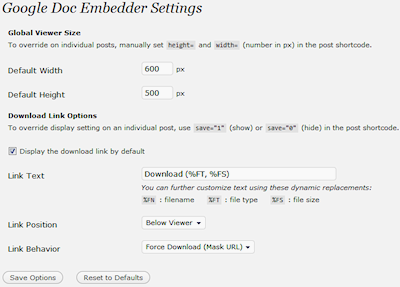
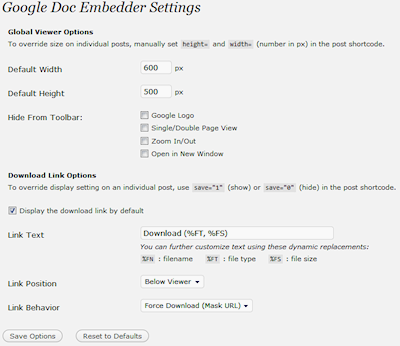
git-svn-id: https://plugins.svn.wordpress.org/google-document-embedder/trunk@160307 b8457f37-d9ea-0310-8a92-e5e31aec5664

diff --git a/gviewer.php b/gviewer.php
@@ -5,7 +5,7 @@ Plugin Name: Google Doc Embedder
 Plugin URI: http://davismetro.com/gde/
 Description: Lets you embed PDF files, PowerPoint presentations, and TIFF images in a web page using the Google Docs Viewer.
 Author: Kevin Davis
-Version: 1.6
+Version: 1.7
 */
 
 /*  Copyright 2009 Kevin Davis. E-mail: kev@tnw.org
@@ -35,6 +35,10 @@ function gviewer_func($atts) {
 	$wd = get_option('gde_default_width');
 	$ht = get_option('gde_default_height');
 	$txt = get_option('gde_link_text');
+	$xlogo = get_option('gde_xlogo');
+	$xfull = get_option('gde_xfull');
+	$xpgup = get_option('gde_xpgup');
+	$xzoom = get_option('gde_xzoom');
 	extract(shortcode_atts(array(
 		'file' => '',
 		'save' => $dl,
@@ -53,20 +57,31 @@ function gviewer_func($atts) {
 	} elseif (!$fsize = validUrl($file)) {
 		$code = "\n<!-- GDE EMBED ERROR: file not found -->\n";
 	} else {
+		$pUrl = getPluginUrl();
+	
 		$fn = basename($file);
 		$fnp = splitFilename($fn);
 		$fsize = formatBytes($fsize);
 		
 		$code=<<<HERE
-<iframe src="http://docs.google.com/viewer?url=%U%&embedded=true" style="width:%W%px; height:%H%px;" frameborder="0" class="gde-frame"></iframe>\n
+<iframe src="%U%" style="width:%W%px; height:%H%px;" frameborder="0" class="gde-frame"></iframe>\n
 HERE;
+
+		$lnk = "http://docs.google.com/viewer?url=".urlencode($file)."&embedded=true";
+		if ($xlogo || $xfull || $xpgup || $xzoom) {
+			$lnk = $pUrl."/altview.php?loc=".urlencode($lnk);
+			if ($xlogo == "1") { $lnk .= "&logo=no"; }
+			if ($xfull == "1") { $lnk .= "&full=no"; }
+			if ($xpgup == "1") { $lnk .= "&pgup=no"; }
+			if ($xzoom == "1") { $lnk .= "&zoom=no"; }
+		}
 
 		if ($save == "1") {
 		
 			$dlMethod = get_option('gde_link_func');
 			if ($fnp[1] == "PDF") {
 				if ($dlMethod == "force" or $dlMethod == "force-mask") {
-					$dlFile = getPluginUrl();
+					$dlFile = $pUrl;
 					$fileParts = parse_url($file);
 					$fileStr = str_replace($fileParts['scheme']."://","",$file);
 					$dlFile .= "/pdf.php?file=".$fileStr."&dl=1&fn=".$fn;
@@ -79,9 +94,12 @@ HERE;
 					$dlFile = shortUrl($dlFile);
 				}
 				
+			} elseif ($dlMethod == "force-mask") {
+				$dlFile = shortUrl($file);
+				$target = "_self";
 			} else {
 				$dlFile = $file;
-				$target = "_blank";
+				$target = "_self";
 			}
 			$linkcode = "<p class=\"gde-text\"><a href=\"$dlFile\" target=\"$target\" class=\"gde-link\">$txt</a></p>";
 			
@@ -92,7 +110,7 @@ HERE;
 			}
 		}
 
-		$code = str_replace("%U%", $file, $code);
+		$code = str_replace("%U%", $lnk, $code);
 		$code = str_replace("%W%", $width, $code);
 		$code = str_replace("%H%", $height, $code);
 		$code = str_replace("%FN", $fn, $code);
@@ -131,7 +149,6 @@ function gde_options() {
 // add additional settings link, for convenience
 $plugin = plugin_basename(__FILE__); 
 function my_plugin_actlinks( $links ) { 
- // Add a link to this plugin's settings page
  $settings_link = '<a href="options-general.php?page=gviewer.php">Settings</a>'; 
  array_unshift( $links, $settings_link ); 
  return $links; 

diff --git a/options.php b/options.php
@@ -12,6 +12,10 @@ if(isset($_REQUEST['defaults'])) {
 	update_option('gde_link_text', $set['gde_link_text']);
 	update_option('gde_link_pos', $set['gde_link_pos']);
 	update_option('gde_link_func', $set['gde_link_func']);
+	update_option('gde_xlogo', $set['gde_xlogo']);
+	update_option('gde_xfull', $set['gde_xfull']);
+	update_option('gde_xpgup', $set['gde_xpgup']);
+	update_option('gde_xzoom', $set['gde_xzoom']);
 	
 	showMessage("Options reset to defaults");
 } elseif(isset($_REQUEST['submit'])) {
@@ -21,6 +25,26 @@ if(isset($_REQUEST['defaults'])) {
 		update_option('gde_show_dl', 1);
 	} else {
 		update_option('gde_show_dl', 0);
+	}
+	if(isset($_POST['gde_xlogo'])) {
+		update_option('gde_xlogo', 1);
+	} else {
+		update_option('gde_xlogo', 0);
+	}
+	if(isset($_POST['gde_xfull'])) {
+		update_option('gde_xfull', 1);
+	} else {
+		update_option('gde_xfull', 0);
+	}
+	if(isset($_POST['gde_xpgup'])) {
+		update_option('gde_xpgup', 1);
+	} else {
+		update_option('gde_xpgup', 0);
+	}
+	if(isset($_POST['gde_xzoom'])) {
+		update_option('gde_xzoom', 1);
+	} else {
+		update_option('gde_xzoom', 0);
 	}
 	if(isset($_POST['gde_default_width'])) {
 		$neww = $_POST['gde_default_width'];
@@ -52,8 +76,8 @@ if(isset($_REQUEST['defaults'])) {
 
 <table class="form-table">
 <tr valign="top">
-<td colspan="2"><strong>Global Viewer Size</strong><br/>
-To override on individual posts, manually set <code>height=</code> and <code>width=</code> (number in px) in the post shortcode.</td>
+<td colspan="2"><strong>Global Viewer Options</strong><br/>
+To override size on individual posts, manually set <code>height=</code> and <code>width=</code> (number in px) in the post shortcode.</td>
 </tr>
 <tr valign="top">
 <th scope="row">Default Width</th>
@@ -62,6 +86,14 @@ To override on individual posts, manually set <code>height=</code> and <code>wid
 <tr valign="top">
 <th scope="row">Default Height</th>
 <td><input type="text" size="5" name="gde_default_height" value="<?php echo get_option('gde_default_height'); ?>" /> px</td>
+</tr>
+<tr valign="top">
+<th scope="row">Hide From Toolbar:</th>
+<td><?php showCheck('gde_xlogo', t('Google Logo')); ?>
+<?php showCheck('gde_xpgup', t('Single/Double Page View')); ?>
+<?php showCheck('gde_xzoom', t('Zoom In/Out')); ?>
+<?php showCheck('gde_xfull', t('Open in New Window')); ?>
+</td>
 </tr>
 <tr valign="top">
 <td colspan="2"><strong>Download Link Options</strong><br/>

diff --git a/altview.php b/altview.php
@@ -1,0 +1,41 @@
+<?php
+
+$str = $_SERVER['QUERY_STRING'];
+parse_str($str);
+
+if (!$src = curl_get_file_contents($loc)) {
+  echo "<html><body>\n\n<!-- GDE EMBED ERROR: alt viewer failed to load -->\n\n</body></html>";
+  exit;
+}
+
+$src = str_replace('<head>','<head><base href="http://docs.google.com/gview" />', $src);
+
+if ($logo == "no") {
+  $src = str_replace('.goog-logo-small {','.goog-logo-small { display: none !important;', $src);
+}
+if ($full == "no") {
+  $src = str_replace('.controlbar-open-in-viewer-image {','.controlbar-open-in-viewer-image { display: none !important;', $src);
+}
+if ($pgup == "no") {
+  $src = str_replace('.controlbar-two-up-image {','.controlbar-two-up-image { display: none !important;', $src);
+  $src = str_replace('.controlbar-one-up-image {','.controlbar-one-up-image { display: none !important;', $src);
+}
+if ($zoom == "no") {
+  $src = str_replace('.controlbar-minus-image {','.controlbar-minus-image { display: none !important;', $src);
+  $src = str_replace('.controlbar-plus-image {','.controlbar-plus-image { display: none !important;', $src);
+}
+
+echo $src;
+
+function curl_get_file_contents($URL)
+    {
+        $c = curl_init();
+        curl_setopt($c, CURLOPT_RETURNTRANSFER, 1);
+        curl_setopt($c, CURLOPT_URL, $URL);
+        $contents = curl_exec($c);
+        curl_close($c);
+
+        if ($contents) return $contents;
+            else return FALSE;
+    }
+?>

diff --git a/functions.php b/functions.php
@@ -8,7 +8,11 @@ function getDefaults() {
 	"gde_show_dl" => 1,
 	"gde_link_text" => "Download (%FT, %FS)",
 	"gde_link_pos" => "below",
-	"gde_link_func" => "default"
+	"gde_link_func" => "default",
+	"gde_xlogo" => 0,
+	"gde_xfull" => 0,
+	"gde_xpgup" => 0,
+	"gde_xzoom" => 0
 	);
 	
 	return $defaults;
@@ -44,7 +48,7 @@ function validUrl($url) {
     }
     curl_setopt($handle, CURLOPT_HEADER, true);
     curl_setopt($handle, CURLOPT_FAILONERROR, true); 
-    curl_setopt($handle, CURLOPT_HTTPHEADER, Array("User-Agent: Mozilla/5.0 (Windows; U; Windows NT 5.1; en-US; rv:1.8.1.15) Gecko/20080623 Firefox/2.0.0.15") ); // needed for some sites (such as digg.com)
+    curl_setopt($handle, CURLOPT_HTTPHEADER, Array("Mozilla/5.0 (Windows; U; Windows NT 5.1; en-US; rv:1.9.1.3) Gecko/20090824 Firefox/3.5.3") ); // needed for some sites (such as digg.com)
     curl_setopt($handle, CURLOPT_NOBODY, true);
 	curl_setopt($handle, CURLOPT_FOLLOWLOCATION, true); // only useful in case of redirects
     curl_setopt($handle, CURLOPT_RETURNTRANSFER, true);
